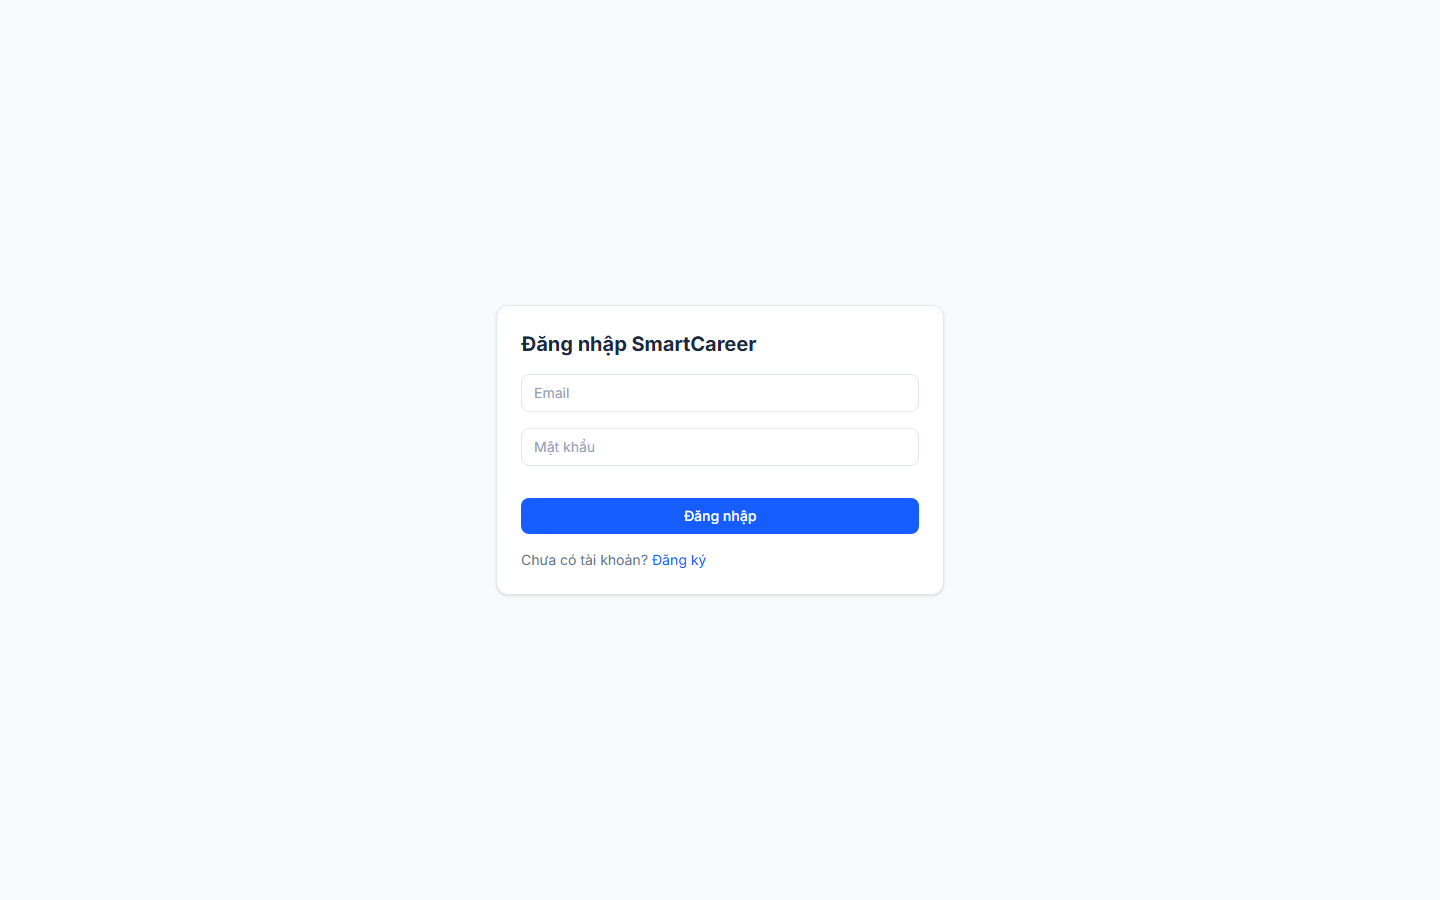
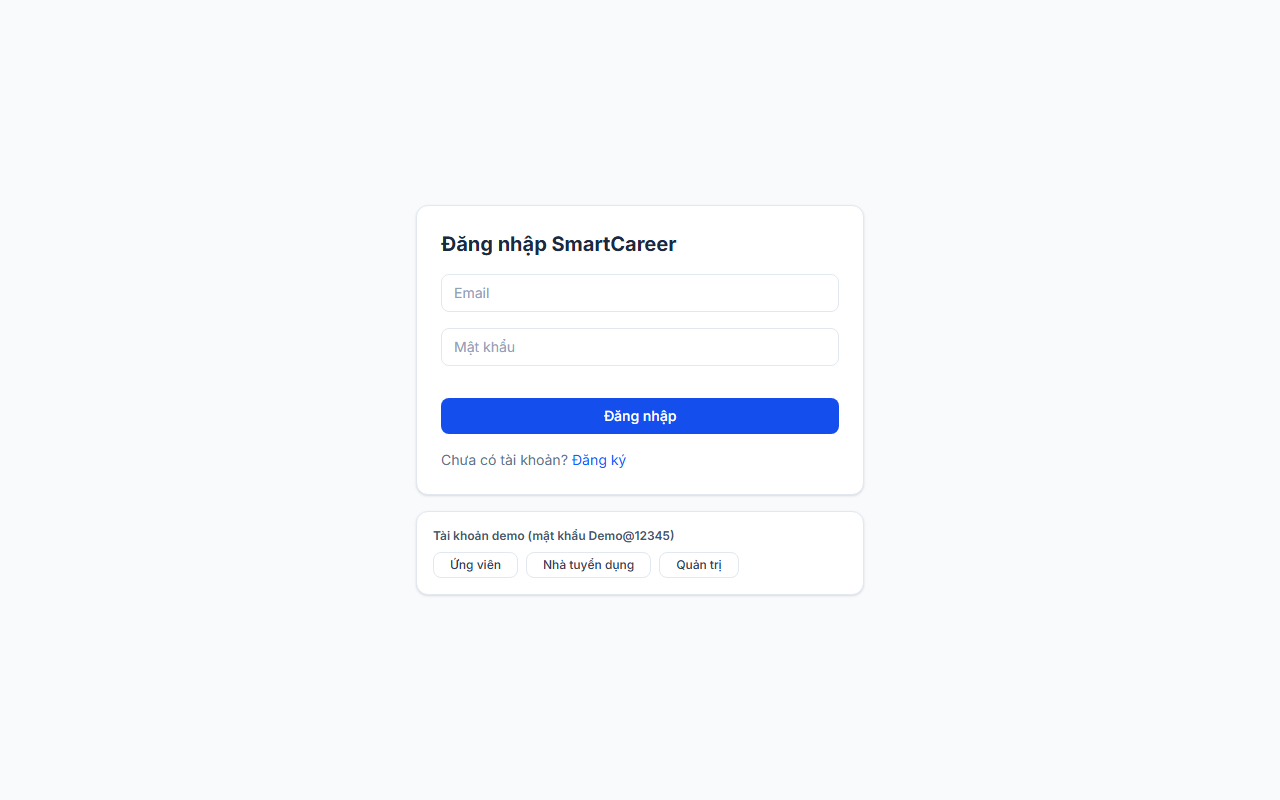
feat(ui): nút điền nhanh tài khoản demo ở trang đăng nhập (Ứng viên, Nhà tuyển dụng, Quản trị)

diff --git a/src/pages/LoginPage.tsx b/src/pages/LoginPage.tsx
@@ -11,5 +11,6 @@ export default function LoginPage() {
   const [password, setPassword] = useState('');
   const [localError, setLocalError] = useState('');
   const submit = async (event: FormEvent) => { event.preventDefault(); setLocalError(''); try { const user = await login(email, password); navigate(user.role === 'candidate' ? '/' : user.role === 'admin' ? '/admin/skills' : '/employer/candidates'); } catch (requestError) { setLocalError(apiErrorMessage(requestError, 'Đăng nhập thất bại.')); } };
-  return <div className="min-h-screen flex items-center justify-center bg-slate-50 p-4"><form onSubmit={submit} className="card p-6 w-full max-w-md space-y-4"><h1 className="text-xl font-bold">Đăng nhập SmartCareer</h1><input className="input-field" type="email" placeholder="Email" value={email} onChange={(e) => setEmail(e.target.value)} required /><input className="input-field" type="password" placeholder="Mật khẩu" value={password} onChange={(e) => setPassword(e.target.value)} required />{isOfflineDemo && <p className="text-xs text-slate-500">Chế độ demo: nhập email bất kỳ. Bắt đầu bằng <code>hr</code> để xem màn nhà tuyển dụng, <code>admin</code> để xem màn quản trị.</p>}<p role="alert" className="text-sm text-red-600">{localError || error}</p><button className="btn-primary w-full justify-center" disabled={loading}>{loading ? 'Đang đăng nhập...' : 'Đăng nhập'}</button><p className="text-sm text-slate-500">Chưa có tài khoản? <Link className="text-blue-600" to="/register">Đăng ký</Link></p></form></div>;
+  const fill = (value: string) => { setEmail(value); setPassword('Demo@12345'); setLocalError(''); };
+  return <div className="min-h-screen flex items-center justify-center bg-slate-50 p-4"><div className="w-full max-w-md space-y-4"><form onSubmit={submit} className="card p-6 w-full space-y-4"><h1 className="text-xl font-bold">Đăng nhập SmartCareer</h1><input className="input-field" type="email" placeholder="Email" value={email} onChange={(e) => setEmail(e.target.value)} required /><input className="input-field" type="password" placeholder="Mật khẩu" value={password} onChange={(e) => setPassword(e.target.value)} required />{isOfflineDemo && <p className="text-xs text-slate-500">Chế độ demo: nhập email bất kỳ. Bắt đầu bằng <code>hr</code> để xem màn nhà tuyển dụng, <code>admin</code> để xem màn quản trị.</p>}<p role="alert" className="text-sm text-red-600">{localError || error}</p><button className="btn-primary w-full justify-center" disabled={loading}>{loading ? 'Đang đăng nhập...' : 'Đăng nhập'}</button><p className="text-sm text-slate-500">Chưa có tài khoản? <Link className="text-blue-600" to="/register">Đăng ký</Link></p></form><div className="card p-4 text-xs text-slate-500 space-y-2"><div className="font-semibold text-slate-600">Tài khoản demo (mật khẩu Demo@12345)</div><div className="flex flex-wrap gap-2"><button type="button" className="btn-secondary text-xs py-1" onClick={() => fill('thanhtung.demo@smartcareer.vn')}>Ứng viên</button><button type="button" className="btn-secondary text-xs py-1" onClick={() => fill('hr1@smartcareer.vn')}>Nhà tuyển dụng</button><button type="button" className="btn-secondary text-xs py-1" onClick={() => fill('admin@smartcareer.vn')}>Quản trị</button></div></div></div></div>;
 }

diff --git a/docs/video_kich_ban_chi_tiet.md b/docs/video_kich_ban_chi_tiet.md
@@ -28,7 +28,7 @@ Gọi thư mục dự án (nhánh `fix/main-chuan-checklist`) là `<repo>`: clon
 | Kiểm tra BI | `python scripts\check_bi_views.py` |
 | Kiểm thử tự động | `cd backend` rồi `python -m pytest -q` |
 
-**Tài khoản** (mật khẩu chung `Demo@12345`; **gõ tay** email và mật khẩu ở trang `/login`):
+**Tài khoản** (mật khẩu chung `Demo@12345`; trang `/login` có 3 nút điền nhanh **Ứng viên / Nhà tuyển dụng / Quản trị** (điền `thanhtung.demo@`, `hr1@`, `admin@` và mật khẩu); `hr5` phải gõ tay):
 
 | Vai trò | Email |
 |---|---|
@@ -87,7 +87,7 @@ Gọi thư mục dự án (nhánh `fix/main-chuan-checklist`) là `<repo>`: clon
 
 | Bước | Thao tác chi tiết | Kết quả mong đợi |
 |---|---|---|
-| 1 | Mở http://localhost:8080/login → gõ `thanhtung.demo@smartcareer.vn` và `Demo@12345` → **Đăng nhập** | Vào trang **Tổng quan**. Dừng 3 giây |
+| 1 | Mở http://localhost:8080/login → bấm nút **Ứng viên** (điền sẵn email và mật khẩu) → **Đăng nhập** | Vào trang **Tổng quan**. Dừng 3 giây |
 | 2 | Menu trái → **Tìm việc làm**. **Chờ vài giây** cho điểm khớp tải xong | Hơn 100 tin, thẻ nào cũng có số %. Cuộn chậm 2–3 giây |
 | 3 | Bấm tiêu đề một tin → cửa sổ chi tiết | Thấy kỹ năng có / thiếu. Bấm **Esc** để đóng |
 | 4 | Menu → **Hồ sơ của tôi**, cuộn tới khung nhập kỹ năng từ CV | Có nút chọn tệp CV và ô đồng ý |

diff --git a/docs/video_kich_ban.md b/docs/video_kich_ban.md
@@ -14,7 +14,7 @@ Video phải cho thấy 5 mục checklist theo thứ tự 01 → 05, dài khoả
 | Bảng so sánh mô hình | `docs\report\tables\model_comparison.csv`, `ndcg_bootstrap.csv`, `kappa.csv` |
 | Test case, báo cáo | `docs\testcases.md`, `docs\report\BaoCao_TH3.md` |
 
-**Tài khoản** (mật khẩu chung `Demo@12345`): ứng viên `thanhtung.demo@smartcareer.vn`; nhà tuyển dụng Sao Mai Software `hr1@smartcareer.vn`; nhà tuyển dụng công ty khác `hr5@smartcareer.vn`; quản trị `admin@smartcareer.vn`. Gõ tay email và mật khẩu ở trang `/login`.
+**Tài khoản** (mật khẩu chung `Demo@12345`): ứng viên `thanhtung.demo@smartcareer.vn`; nhà tuyển dụng Sao Mai Software `hr1@smartcareer.vn`; nhà tuyển dụng công ty khác `hr5@smartcareer.vn`; quản trị `admin@smartcareer.vn`. Trang `/login` có 3 nút điền nhanh Ứng viên / Nhà tuyển dụng / Quản trị (điền `thanhtung.demo@`, `hr1@`, `admin@`); `hr5` phải gõ tay.
 
 ## B. Chuẩn bị (trước khi quay 1 giờ)
 
